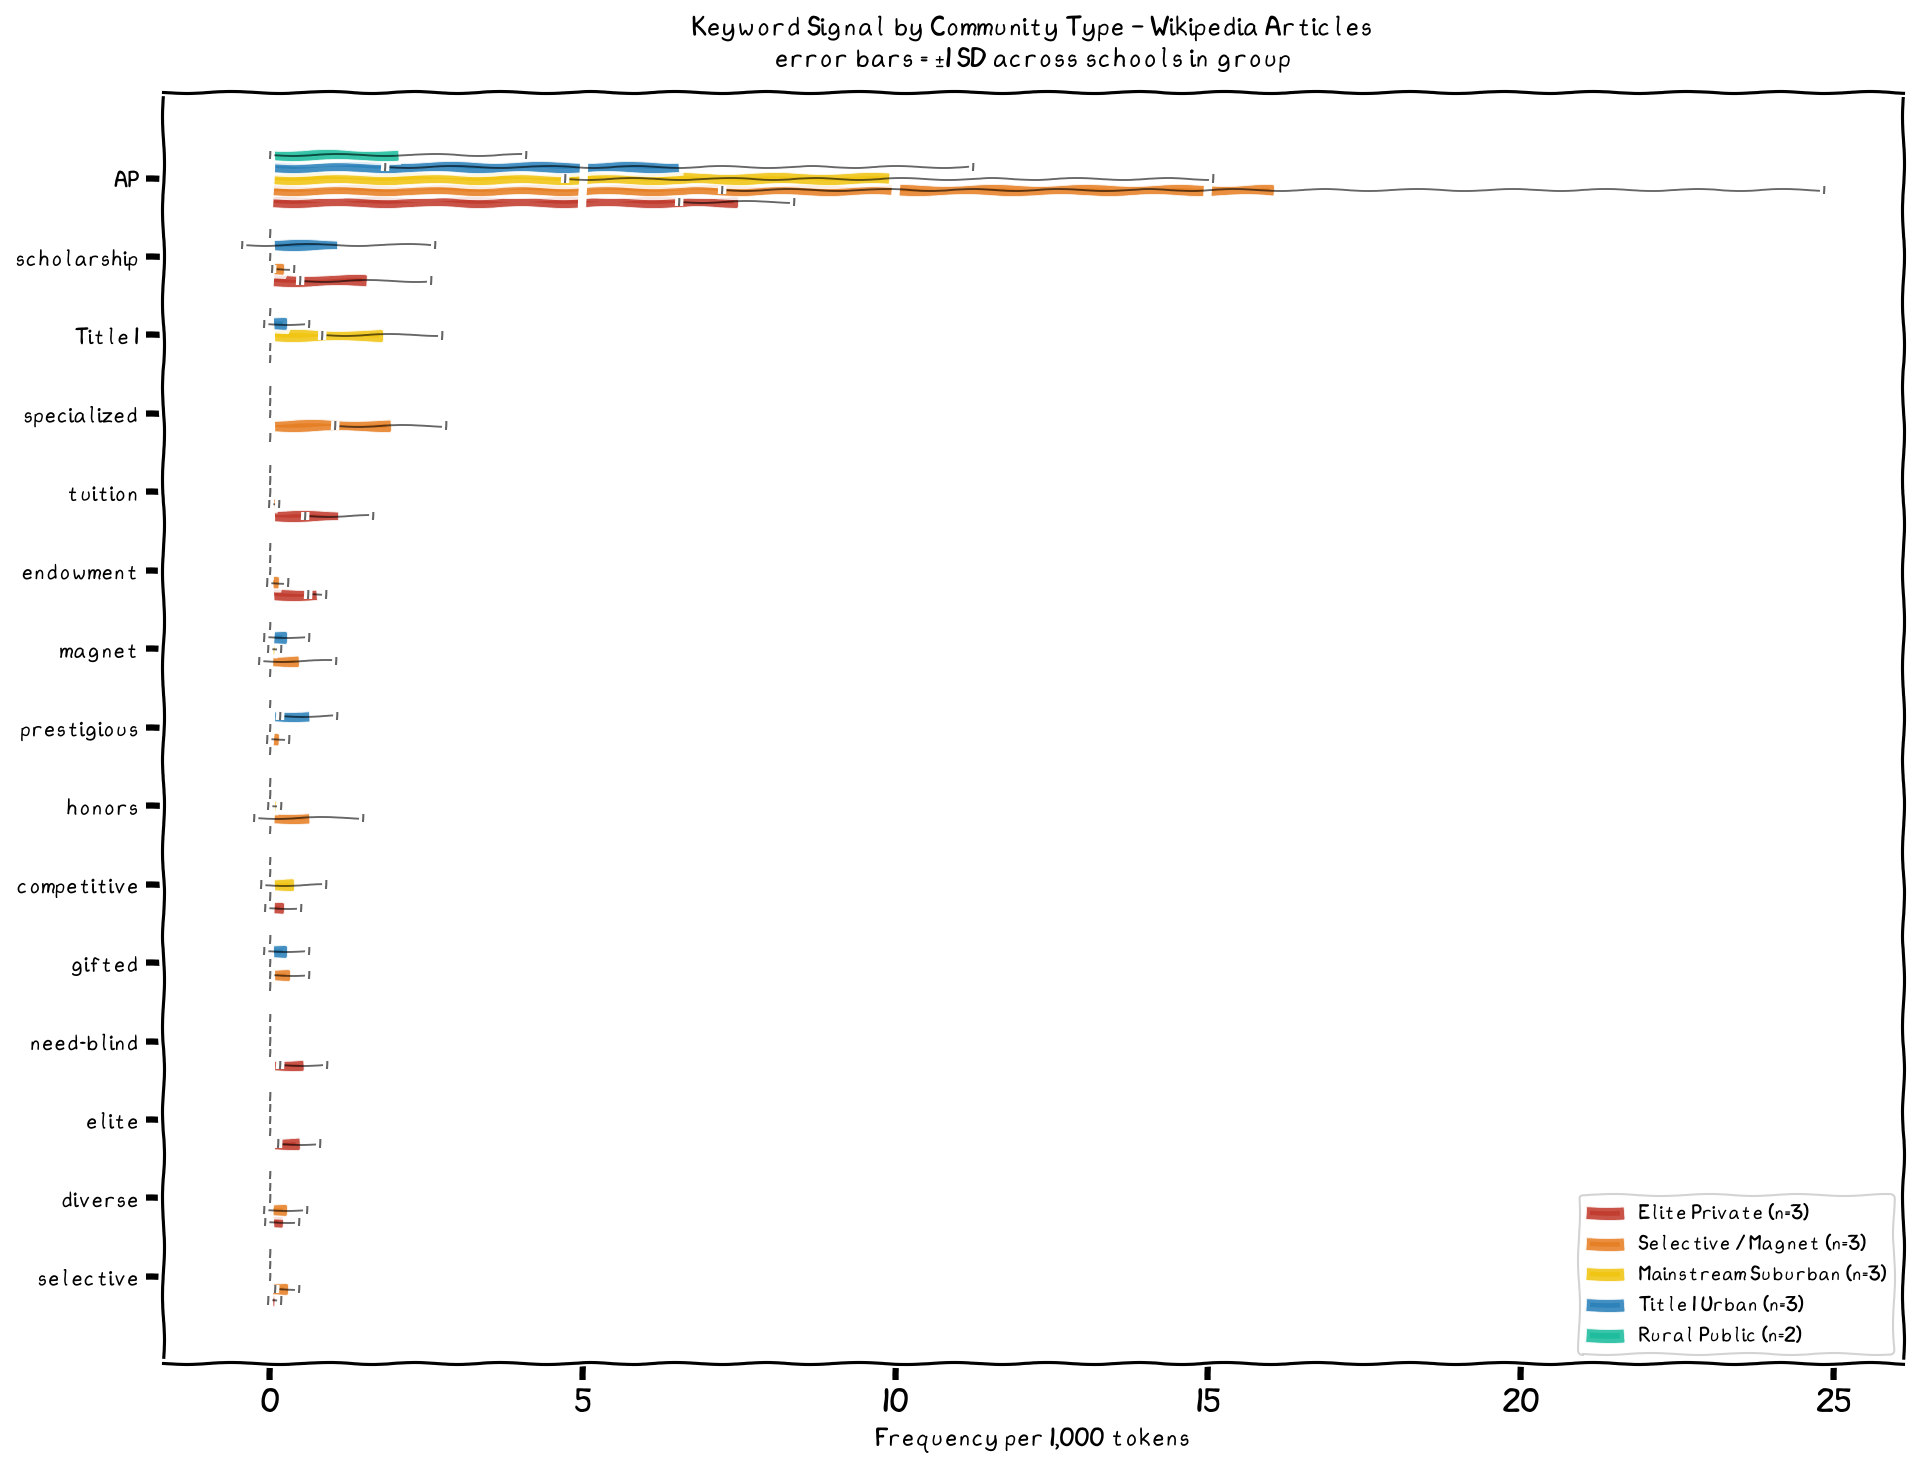
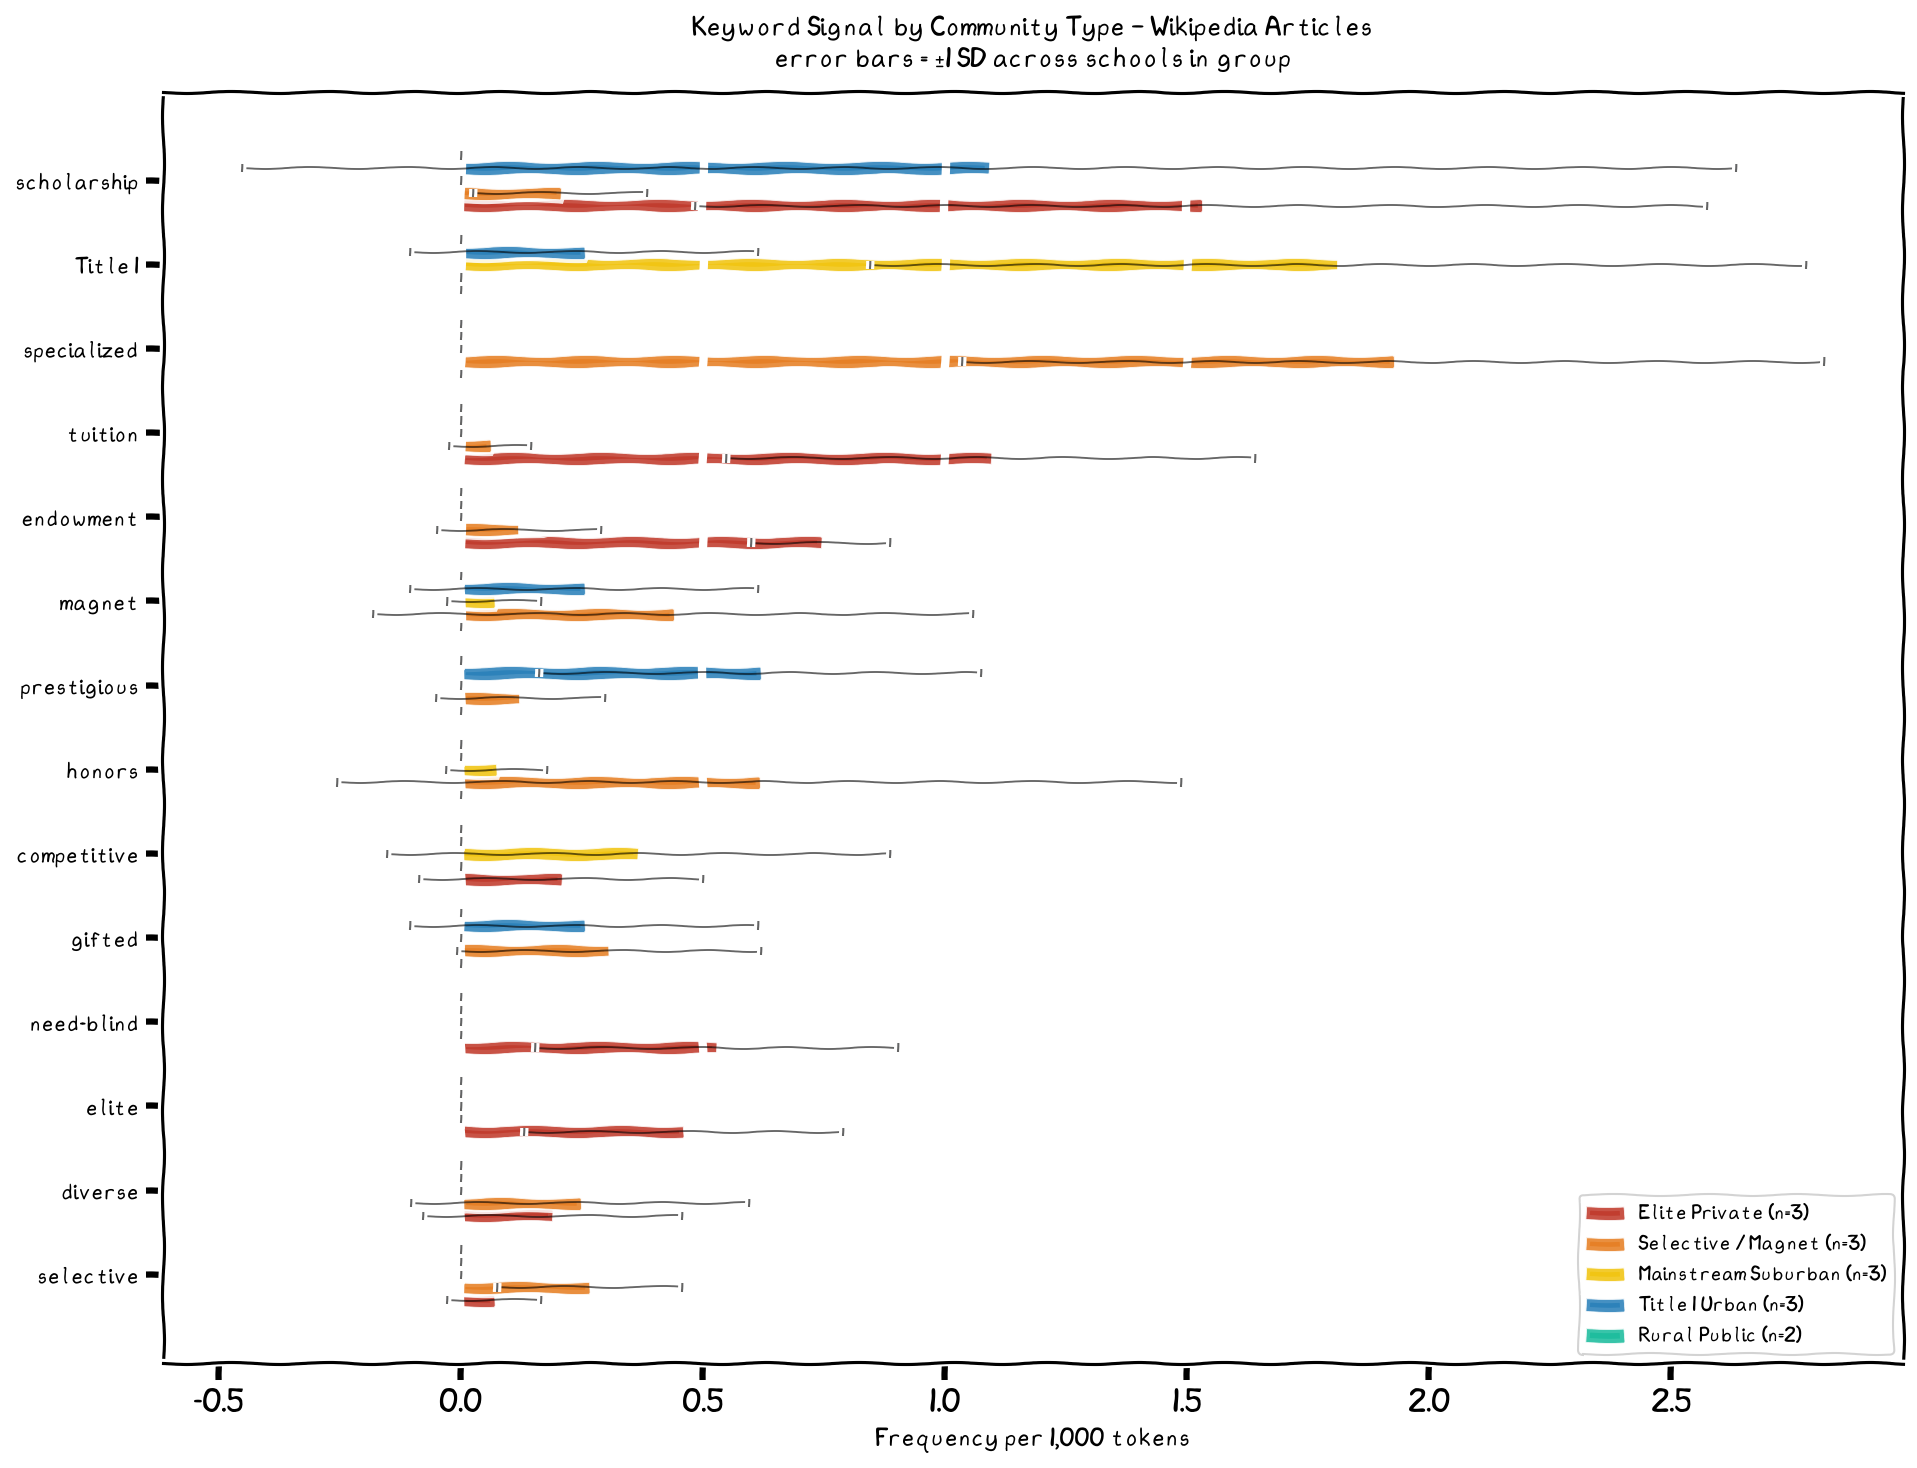
re write word frequency plotter to omit dominating keyword AP. also cache raw article content

diff --git a/data/corpus_word_freq_analysis/wiki_keyword_freq.py b/data/corpus_word_freq_analysis/wiki_keyword_freq.py
@@ -21,6 +21,7 @@ import time
 import argparse
 import random
 
+import json
 import requests
 import numpy as np
 import matplotlib
@@ -77,7 +78,6 @@ KEYWORDS = [
     "elite",
     "gifted",
     "honors",
-    "AP",
     "diverse",
     "scholarship",
     "endowment",
@@ -85,23 +85,44 @@ KEYWORDS = [
 ]
 
 
+CACHE_PATH = os.path.join(os.path.dirname(os.path.abspath(__file__)), "wiki_text_cache.json")
+
+def _load_cache() -> dict:
+    if os.path.exists(CACHE_PATH):
+        with open(CACHE_PATH) as f:
+            return json.load(f)
+    return {}
+
+def _save_cache(cache: dict):
+    with open(CACHE_PATH, "w") as f:
+        json.dump(cache, f)
+
+
 # ── Wikipedia fetch ───────────────────────────────────────────────────────────
 def fetch_wikipedia_text(title: str) -> str | None:
     """
     Fetch plain-text extract of a Wikipedia article by title.
     Returns None if the article does not exist or is empty.
+    Retries up to 3 times with exponential backoff on 429.
     """
     url     = "https://en.wikipedia.org/w/api.php"
     params  = {"action": "query", "titles": title, "prop": "extracts",
                 "explaintext": True, "format": "json", "redirects": 1}
     headers = {"User-Agent": "research2026-keyword-analysis/1.0 (academic research)"}
-    resp    = requests.get(url, params=params, headers=headers, timeout=15)
-    resp.raise_for_status()
-    pages   = resp.json()["query"]["pages"]
-    page    = next(iter(pages.values()))
-    if "missing" in page:
-        return None
-    return page.get("extract", "") or None
+    for attempt in range(4):
+        resp = requests.get(url, params=params, headers=headers, timeout=15)
+        if resp.status_code == 429:
+            wait = 5 * (2 ** attempt)
+            print(f"429 — waiting {wait}s ...", end=" ", flush=True)
+            time.sleep(wait)
+            continue
+        resp.raise_for_status()
+        pages = resp.json()["query"]["pages"]
+        page  = next(iter(pages.values()))
+        if "missing" in page:
+            return None
+        return page.get("extract", "") or None
+    raise requests.HTTPError(f"429 after retries: {title}")
 
 
 # ── Frequency computation ─────────────────────────────────────────────────────
@@ -204,26 +225,36 @@ def main():
         args.out = os.path.join(script_dir, f"wiki_keyword_freq_{args.mode}.png")
     csv_out = args.out.replace(".png", ".csv")
 
-    # 1) Fetch articles
+    # 1) Fetch articles (cache to avoid repeat 429s)
     print("=" * 60)
     print(f"  Fetching Wikipedia articles  [mode: {args.mode}]")
     print("=" * 60)
+    cache = _load_cache()
     school_texts = {}   # label → text
     school_groups = {}  # label → group
+    cache_dirty = False
     for wiki_title, label, group in SCHOOLS:
-        print(f"  {wiki_title} ...", end=" ", flush=True)
-        try:
-            text = fetch_wikipedia_text(wiki_title)
-        except Exception as e:
-            print(f"ERROR ({e}) — skipping")
-            continue
-        if text is None:
-            print("NOT FOUND — skipping")
+        if wiki_title in cache:
+            text = cache[wiki_title]
+            print(f"  {wiki_title} ... {len(text.split()):,} tokens [cached]")
         else:
+            print(f"  {wiki_title} ...", end=" ", flush=True)
+            try:
+                text = fetch_wikipedia_text(wiki_title)
+            except Exception as e:
+                print(f"ERROR ({e}) — skipping")
+                continue
+            if text is None:
+                print("NOT FOUND — skipping")
+                continue
             print(f"{len(text.split()):,} tokens")
-            school_texts[label]  = text
-            school_groups[label] = group
-        time.sleep(0.4)
+            cache[wiki_title] = text
+            cache_dirty = True
+            time.sleep(0.4)
+        school_texts[label]  = text
+        school_groups[label] = group
+    if cache_dirty:
+        _save_cache(cache)
 
     if len(school_texts) < 2:
         print("[error] Need at least 2 articles.")